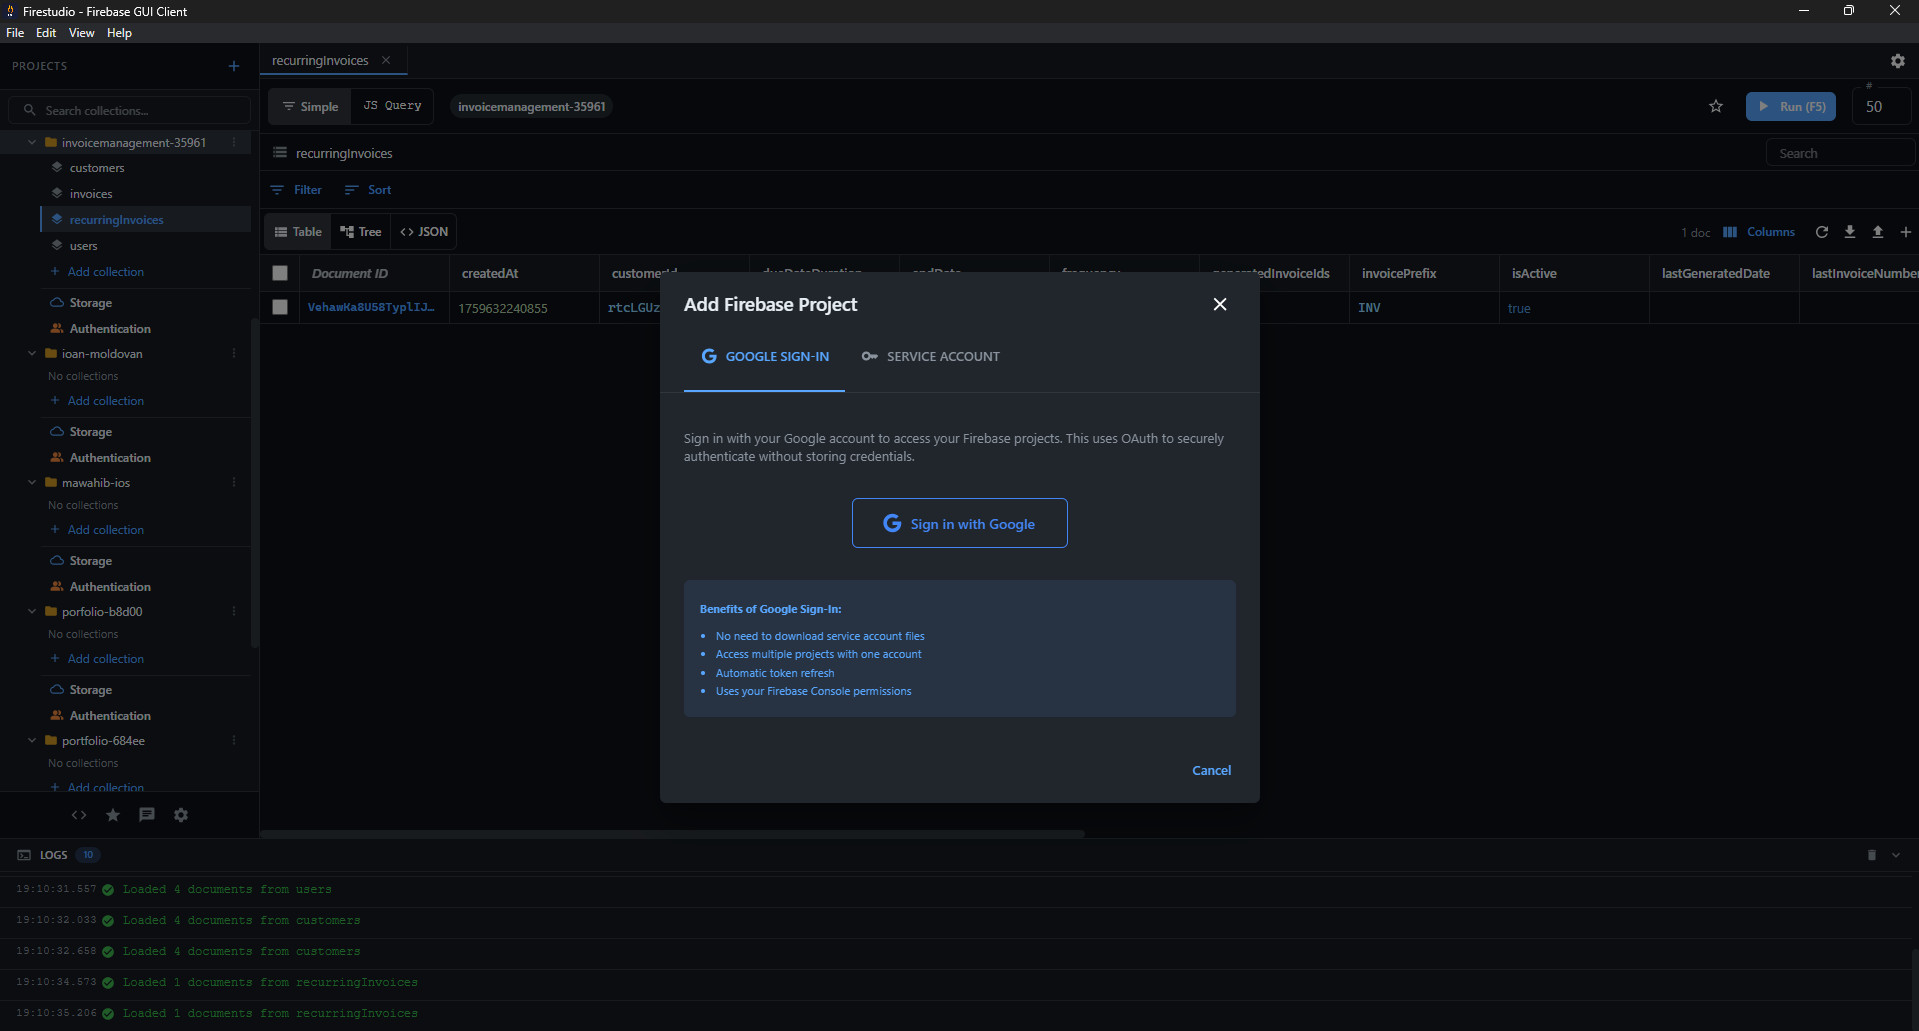
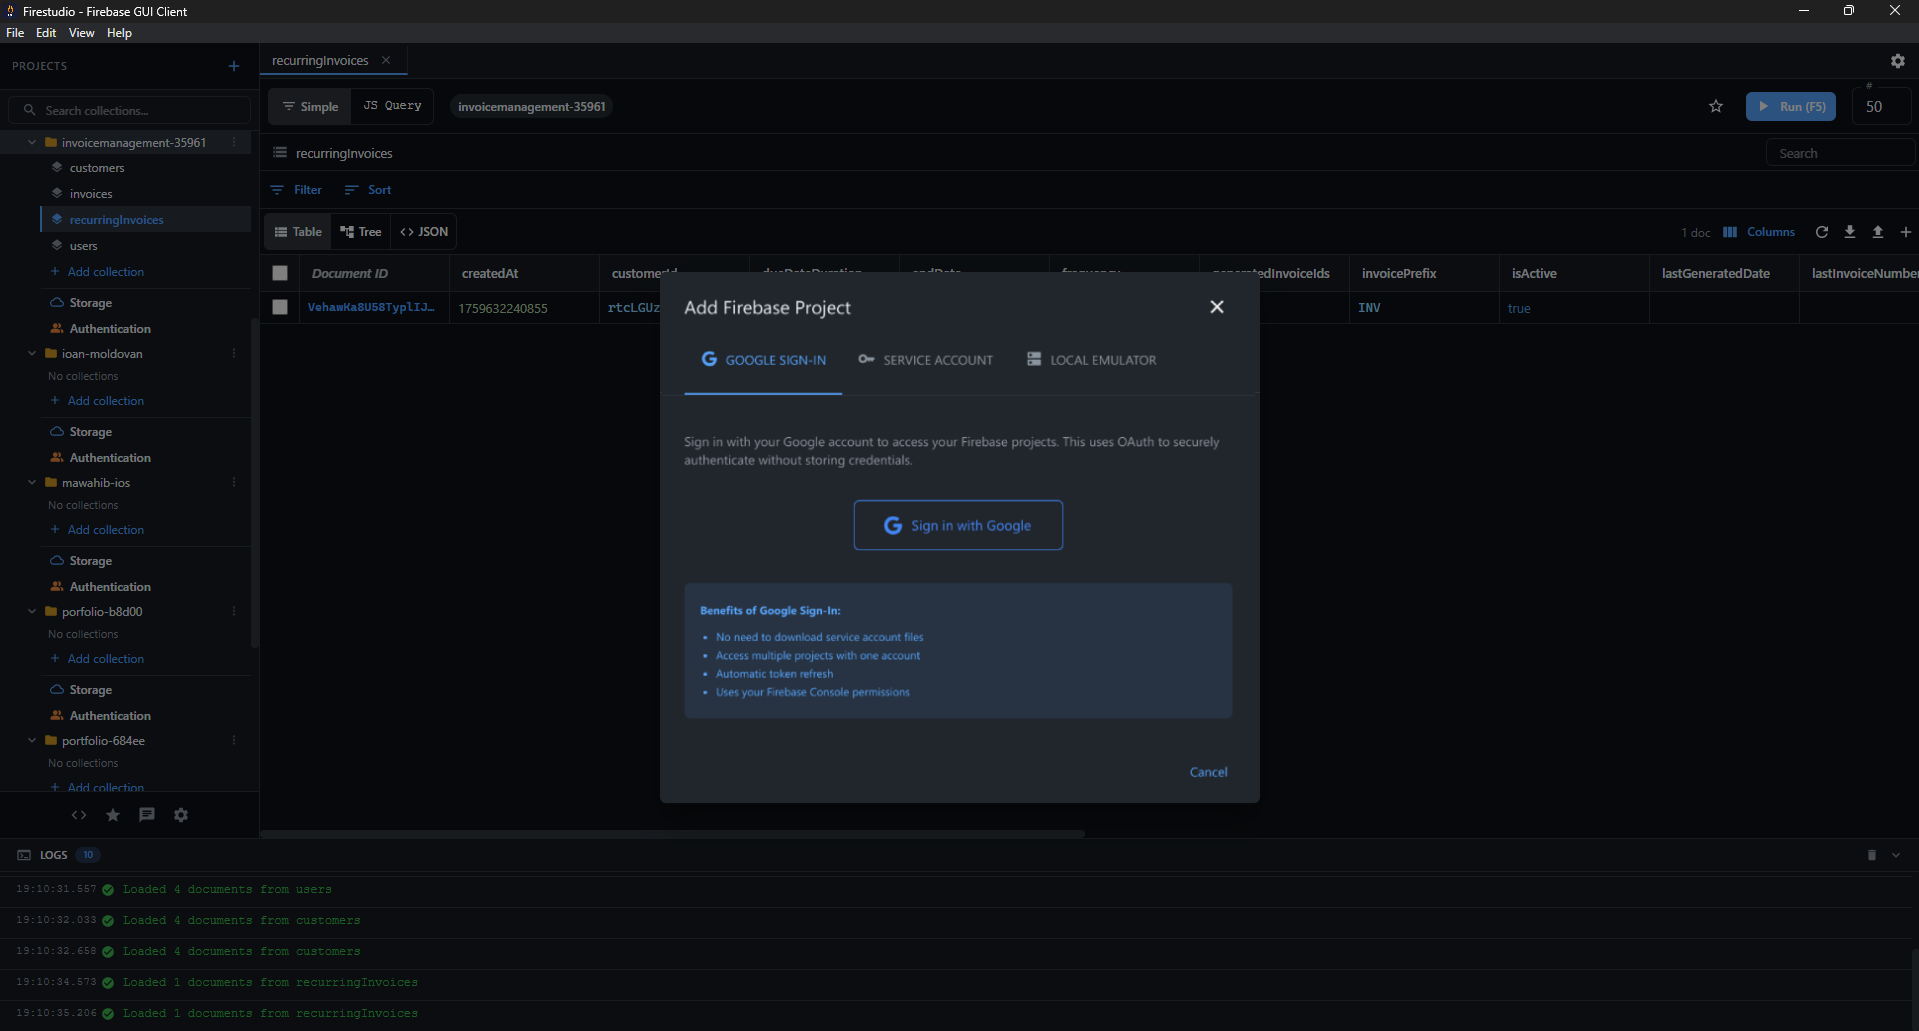
docs: add local emulator support to README and update screenshot

diff --git a/README.md b/README.md
@@ -24,6 +24,7 @@ Firestudio is a **free and open-source desktop application** for managing your c
 - 👥 **Authentication**: View, create, and manage Firebase Auth users
 - 🔍 **Querying**: Use simple filters or JavaScript for advanced queries
 - 📥 **Import/Export**: Bulk operations with JSON files
+- 🔧 **Local Emulator Support**: Connect to Firebase Local Emulator Suite
 - 🎨 **Themes**: Dark/Light mode with customizable settings
 
 Perfect for **Firebase developers**, **backend engineers**, **database administrators**, and anyone working with **Google Firebase**.
@@ -52,6 +53,7 @@ Perfect for **Firebase developers**, **backend engineers**, **database administr
 
 - **Service Account**: Connect using Firebase service account JSON files for full admin access
 - **Google Sign-In**: OAuth-based authentication using your Google account
+- **Local Emulator**: Connect directly to Firebase Local Emulator Suite for local development
 
 ### 📊 Firestore Database Management
 
@@ -181,6 +183,12 @@ pnpm run dev
 #### Method 2: Google Sign-In
 
 See detailed OAuth setup guide in the [Google Sign-In Setup](#google-sign-in-setup) section.
+
+#### Method 3: Local Emulator
+
+1. Start your Firebase Emulators (`firebase emulators:start`)
+2. In Firestudio, click **"Add Project"** → **"Local Emulator"** tab
+3. Select a detected emulator from the list and click **"Connect"**
 
 ---
 